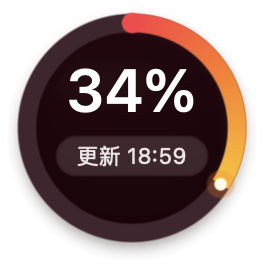
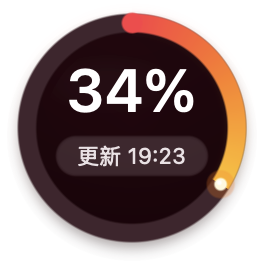
docs(mac): refresh release previews and independent repository status

Changed region(s): [[0.4848, 0.5455, 0.7273, 0.6364], [0.303, 0.5455, 0.4545, 0.6364]]

diff --git a/docs/PROJECT_STATUS.md b/docs/PROJECT_STATUS.md
@@ -2,9 +2,9 @@
 
 ## Verified
 
-- Last verified: 2026-10-11 19:00 +08:00
+- Last verified: 2026-10-11 19:25 +08:00
 - Branch: macos-port
-- Code baseline: 5fb9ebf72882afdd9cc9b1f7774e4699d096bfa8
+- Code baseline: 8a2a921e2648e800baa3103c10c383720e586d8a
 - Verification scope: COMMIT；生产源码 36 个文件与冻结包逐项一致；验收脚本、截图与报告随后归档，不改变应用。
 - Status: Active
 
@@ -18,7 +18,7 @@
 
 ## In Progress
 
-- 本轮外环拓宽与底部暗边修复完成，34 项测试、原生 22 项及精确 DMG 复核通过。用户要求的 Mac 弹窗通用标准已写入长期记忆更新说明，待记忆系统合并。
+- 当前包原生 22 项及精确 DMG 复核通过；GitHub 8a2a921 云端检查运行中，通过后发布 v0.1.4。用户要求的 Mac 弹窗通用标准已写入长期记忆更新说明，待记忆系统合并。
 
 ## Blocked
 
@@ -42,18 +42,18 @@
 ## Verification Gaps
 
 - 下次系统真实登录后的自动启动、Intel 设备与 macOS 13 真机、多屏、完整睡眠和长期运行。
-- 未 Developer ID 签名、公证，未创建 Mac 远端仓库或触发远端 CI。
+- 未 Developer ID 签名、公证；Mac 独立公共仓库及 main 已创建，最终提交云端检查运行中。
 
 ## Sync & Safety
 
-- Sync checked at: 2026-10-11 19:00 +08:00；归档验收前观察。
+- Sync checked at: 2026-10-11 19:25 +08:00；归档验收前观察。
 - Docs: OK；本项目合同、README、状态与验收对应同一产物。
 - Git: 当前生产代码已本地 checkpoint；本轮边缘修复与验收文档已归档。
-- Remote: LOCAL ONLY；windows-source 为来源 remote，Mac 分支无远端发布。
-- Rollback: 5fb9ebf72882afdd9cc9b1f7774e4699d096bfa8；本机已验证的 Mac 代码 checkpoint；Windows 来源为 e6e3c5d9c26f498b5a3b7e9148f21340331c8d7a。
+- Remote: PUBLIC；origin 为 nanzhufeng/NanfengCodexQuota-Mac，main 已推送；windows-source 仅作来源。Release 正在准备。
+- Rollback: 8a2a921e2648e800baa3103c10c383720e586d8a；本机已验证的 Mac 代码 checkpoint；Windows 来源为 e6e3c5d9c26f498b5a3b7e9148f21340331c8d7a。
 - Secrets/config risk: NONE；定向源码扫描 0 个密钥命中；QA 隔离设置，不提交真实额度原始样本，不复制凭据、不调用模型。
 
 ## Next
 
 1. 用户在本机使用当前 .app / DMG；下一次正常登录验证自动启动。
-2. 若请求正式外部分发，再准备 Developer ID / 公证及独立 Mac GitHub 仓库。
+2. 完成 GitHub v0.1.4 Release 上传及远端附件校验；Developer ID / 公证仍为独立发行边界。

diff --git a/docs/qa/MAC_ACCEPTANCE.md b/docs/qa/MAC_ACCEPTANCE.md
@@ -1,7 +1,7 @@
 # Mac 最终验收
 
-- 时间：2026-10-11 19:00 +08:00
-- 生产代码：5fb9ebf72882afdd9cc9b1f7774e4699d096bfa8，36 个生产文件 manifest 与最终包一致。
+- 时间：2026-10-11 19:25 +08:00
+- 生产代码：8a2a921e2648e800baa3103c10c383720e586d8a，36 个生产文件 manifest 与最终包一致。
 - Apple Silicon 本机 macOS 26.5.2；arm64 / x86_64 universal 编译、Mac 13+ 部署目标。
 - 自动测试：34 PASS / 1 默认忽略；fmt / clippy -D warnings PASS。
 - 原生隔离 UI：22 / 22 PASS。新增菜单完整五项、点击点右上锚定、刷新不移动、动作后关闭。
@@ -11,14 +11,14 @@
 - 登录启动：旧进程 SecCodeCopyGuestWithAttributes=-67049，新实例 locate=0 / validity=0，用户原始开关真实注册成功；最终构建开关仍开启。未执行系统注销/重登。
 - 打包保护：目标在运行时构建被拒绝，已验证可执行文件字节未变；退出后采用新文件原子替换，不再原地破坏运行中 Mach-O。
 - 最终 DMG：挂载验签通过，包内 executable 与 dist bundle SHA-256 完全一致；真实只读接口已连接、周剩余 85%、五小时接口未提供。没有模型调用。
-- 签名：本地 ad-hoc，非 Developer ID，未 Apple 公证。Mac 仓库未推送。
+- 签名：本地 ad-hoc，非 Developer ID，未 Apple 公证。Mac 独立公共仓库 main 已推送，Release 上传待最终 CI。
 
 ## 产物
 
 - `dist/南枫 Codex 额度.app`
-- `dist/南枫Codex额度-Mac-v0.1.4-universal.dmg`，4709628 bytes
[2 lines of base64/hex data omitted]
+- `dist/南枫Codex额度-Mac-v0.1.4-universal.dmg`，4709592 bytes
[2 lines of base64/hex data omitted]
 
 截图为当前原生运行页面的隔离 fixture，README 已说明；用户真实服务原始 JSON、系统日志和进程身份审计只保留本地。上述哈希后没有重建或重签产物。
 

diff --git a/docs/CURRENT_HANDOFF.md b/docs/CURRENT_HANDOFF.md
@@ -2,12 +2,12 @@
 
 Mac 完整移植及本轮反馈已实现，结果见 PROJECT_STATUS.md 与 qa/MAC_ACCEPTANCE.md。
 
-- 生产基线：5fb9ebf72882afdd9cc9b1f7774e4699d096bfa8；36 个文件摘要在 `.release/source-manifest.json`。
-- 最终 DMG SHA-256：482d0d8061a01d6d7cd76d9860262c548cdeabbb0b4e5282945e80520375ce88。
+- 生产基线：8a2a921e2648e800baa3103c10c383720e586d8a；36 个文件摘要在 `.release/source-manifest.json`。
+- 最终 DMG SHA-256：c33f01e9fb4e8ea9be1e5b1cf39e39be300903a6c94683e93d01babe4a50c2f5。
 - 当前 dist 应用已启动：真实额度已连接，登录启动已开启且在最终重建后保持。
 - 圆窗按用户最新要求，彩色环只向外加宽 3 pt，暗底收回外沿；132 pt 画布、内缘和文字字重/布局保持。菜单为紧凑、适度原生玻璃，五项全显、点击点右上固定，去掉多余矩形硬框，保留自然过渡的圆角阴影。正常更新不显示刷新中。
 - 根因修复：禁止重建覆盖运行中的目标，原子替换。先退出精确 app 再构建；不得宽匹配杀进程。
 - 包已冻结，不为更新文档重建或重签。复核命令：`python3 tests/verify_macos_package.py`。
-- 未做系统注销、Intel/macOS 13 真机、多屏、完整睡眠或长期运行。未公证，未创建或推送 Mac 远端。
+- 未做系统注销、Intel/macOS 13 真机、多屏、完整睡眠或长期运行。未公证；Mac 公共远端 main 已推送，Release 上传待最终 CI。
 
 - Mac 弹窗通用 UI 标准：用户已授权记录，更新说明位于 `~/.codex/memories/extensions/ad_hoc/notes/20261011-macos-popup-common-ui-standard.md`，状态待记忆系统应用；禁止把取消阴影的中间版本记作标准。

diff --git a/docs/MAC_PORT.md b/docs/MAC_PORT.md
@@ -2,7 +2,7 @@
 
 来源：nanzhufeng/NanfengCodexQuota-Windows，基线 e6e3c5d9c26f498b5a3b7e9148f21340331c8d7a（v0.1.4）。
 
-目标：完整保留只读额度功能与原有设计，交付可运行 macOS 应用。Windows 源码保留作精确保真参考；没有授权发布远端或修改 Codex 登录数据。
+目标：完整保留只读额度功能与原有设计，交付可运行 macOS 应用。Windows 源码保留作精确保真参考；移植初期仅作本地交付；2026-10-11 用户已明确授权打包上传 GitHub。不得修改 Codex 登录数据。
 
 | 行为 / 消费者 | 唯一所有者 | Mac 适配与验证 |
 | --- | --- | --- |

diff --git a/README.md b/README.md
@@ -23,7 +23,7 @@ GitHub 附件 `NanfengCodexQuota-Mac-v0.1.4-universal.dmg` 对应本地中文安
 
 ## 界面预览
 
-Mac v0.1.4，生产提交 `5fb9ebf`，Apple Silicon / macOS 26.5.2 的真实原生运行页面。常规与关于内容区 1064×711 pt，悬浮窗 132×132 pt；额度来自隔离 fixture，截图不包含用户账户数据。
+Mac v0.1.4，生产提交 `8a2a921`，Apple Silicon / macOS 26.5.2 的真实原生运行页面。常规与关于内容区 1064×711 pt，悬浮窗 132×132 pt；额度来自隔离 fixture，截图不包含用户账户数据。
 
 ![悬浮窗](docs/images/mac-widget.png)
 
